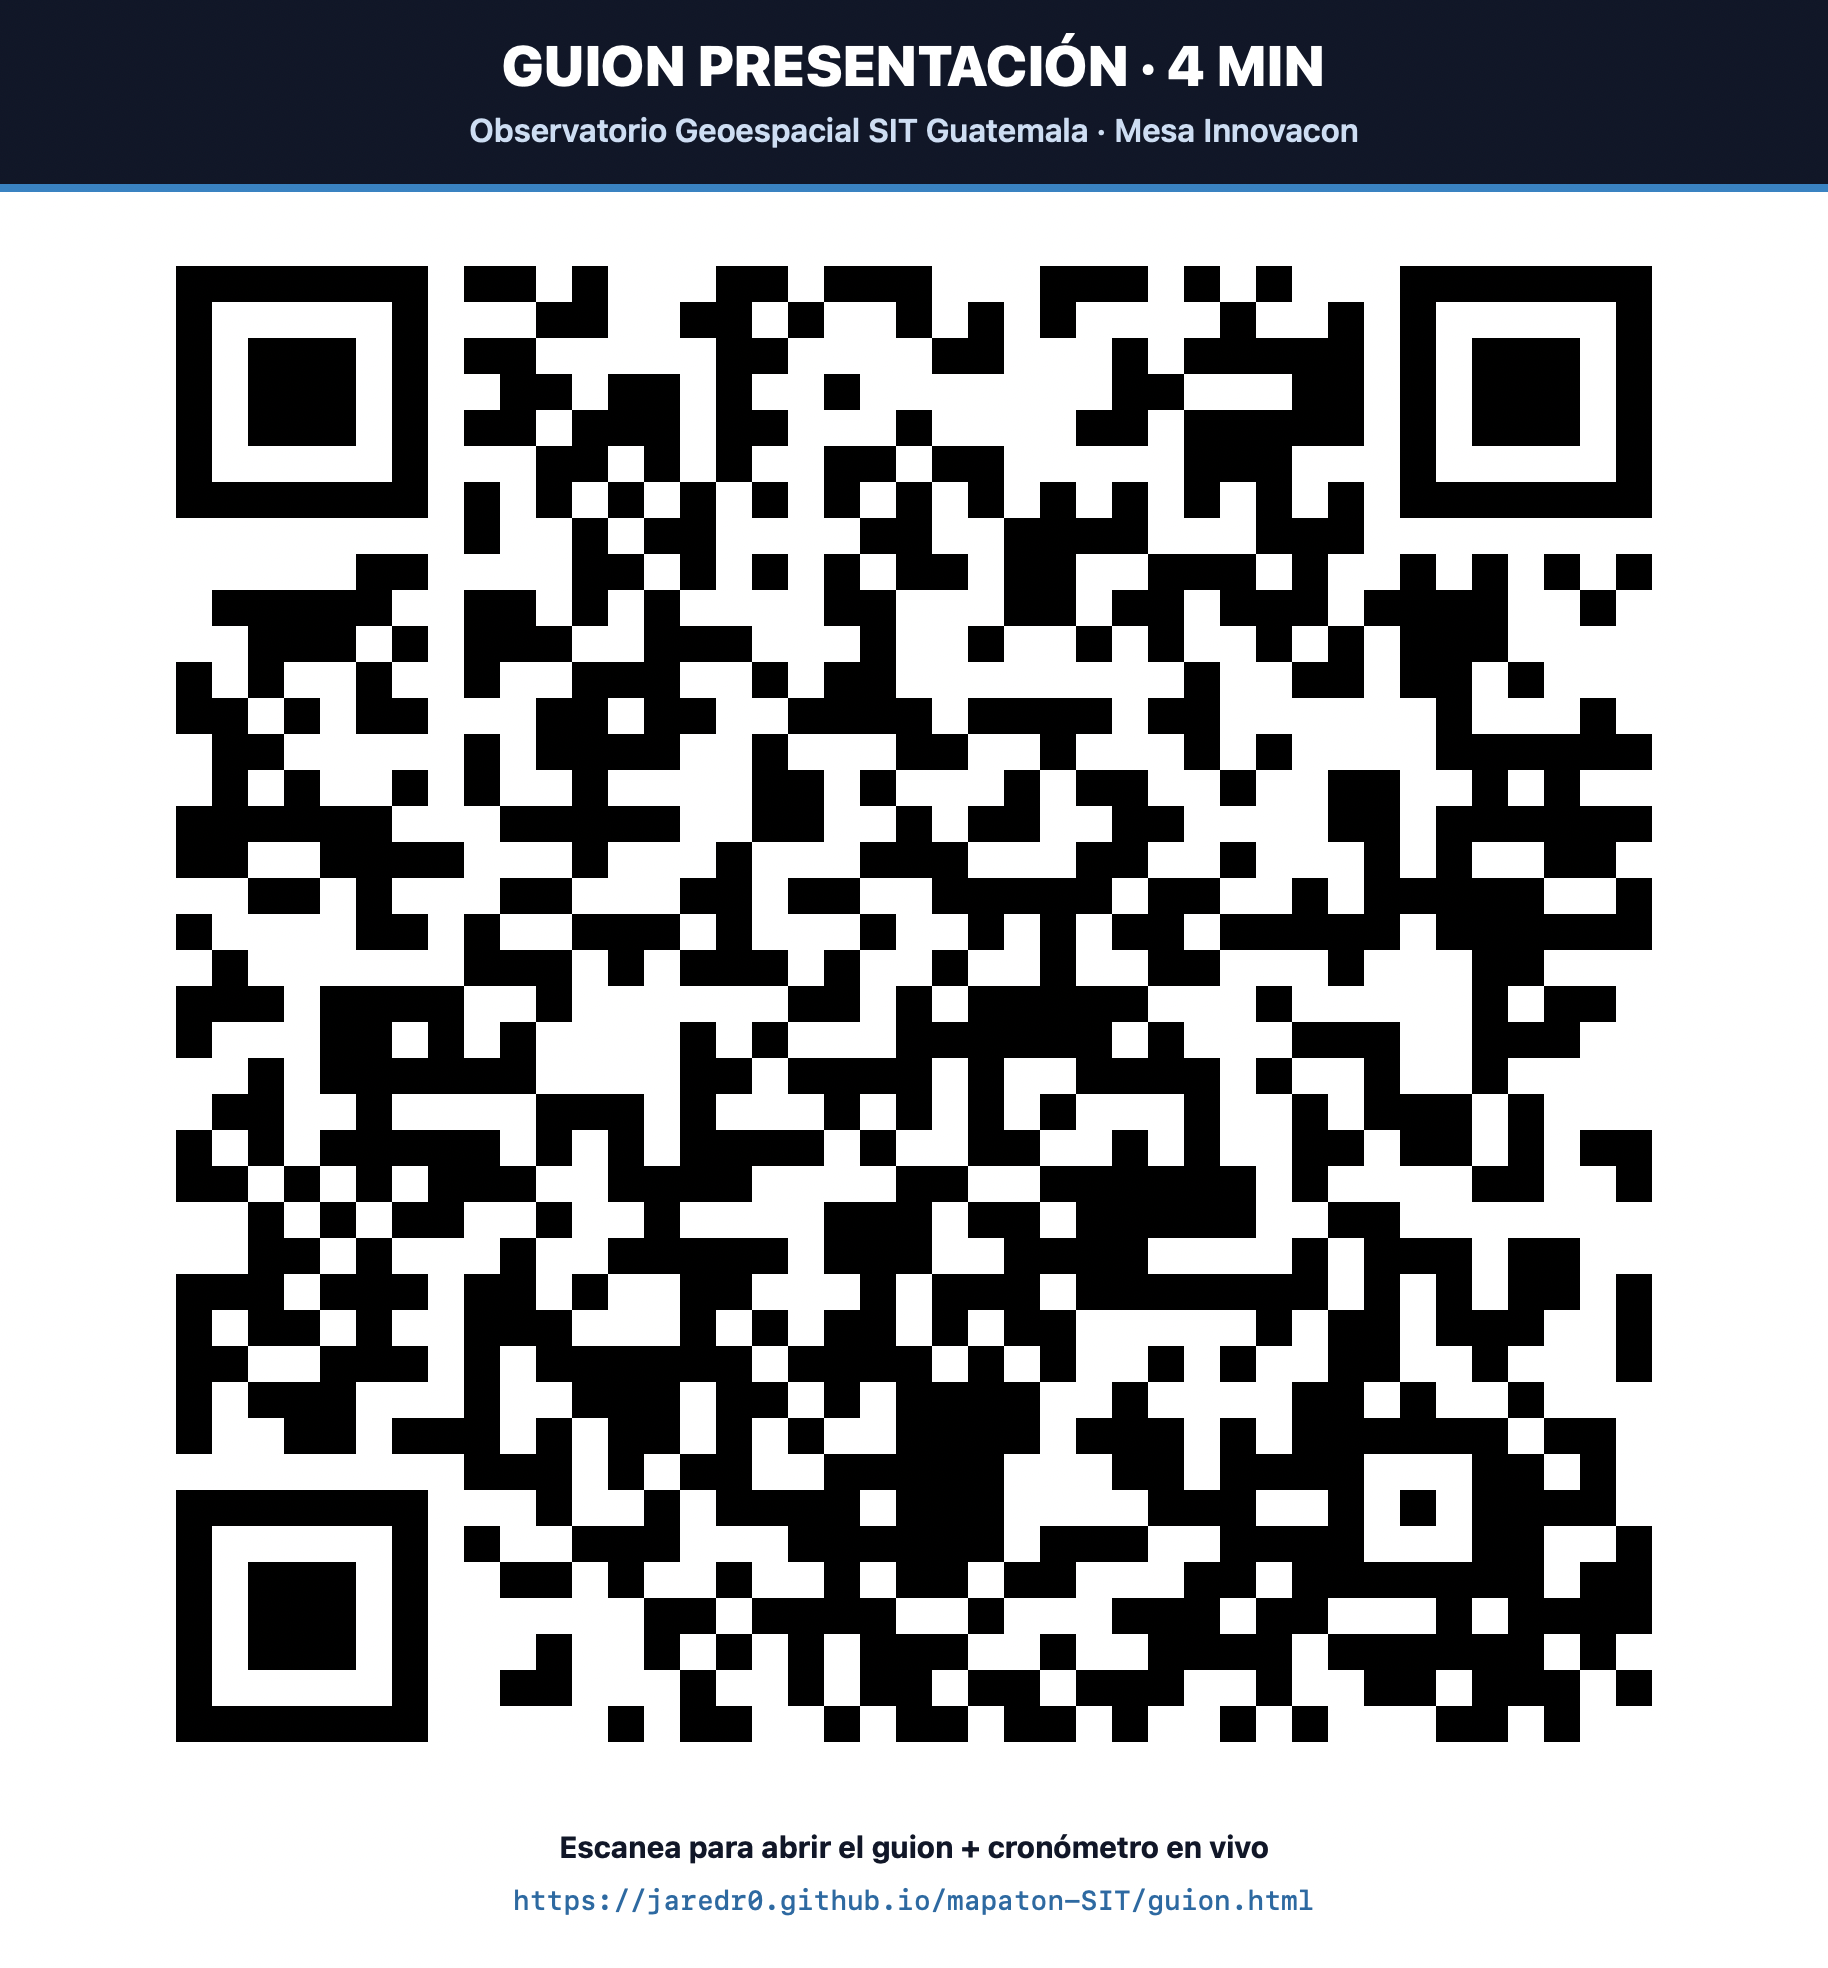
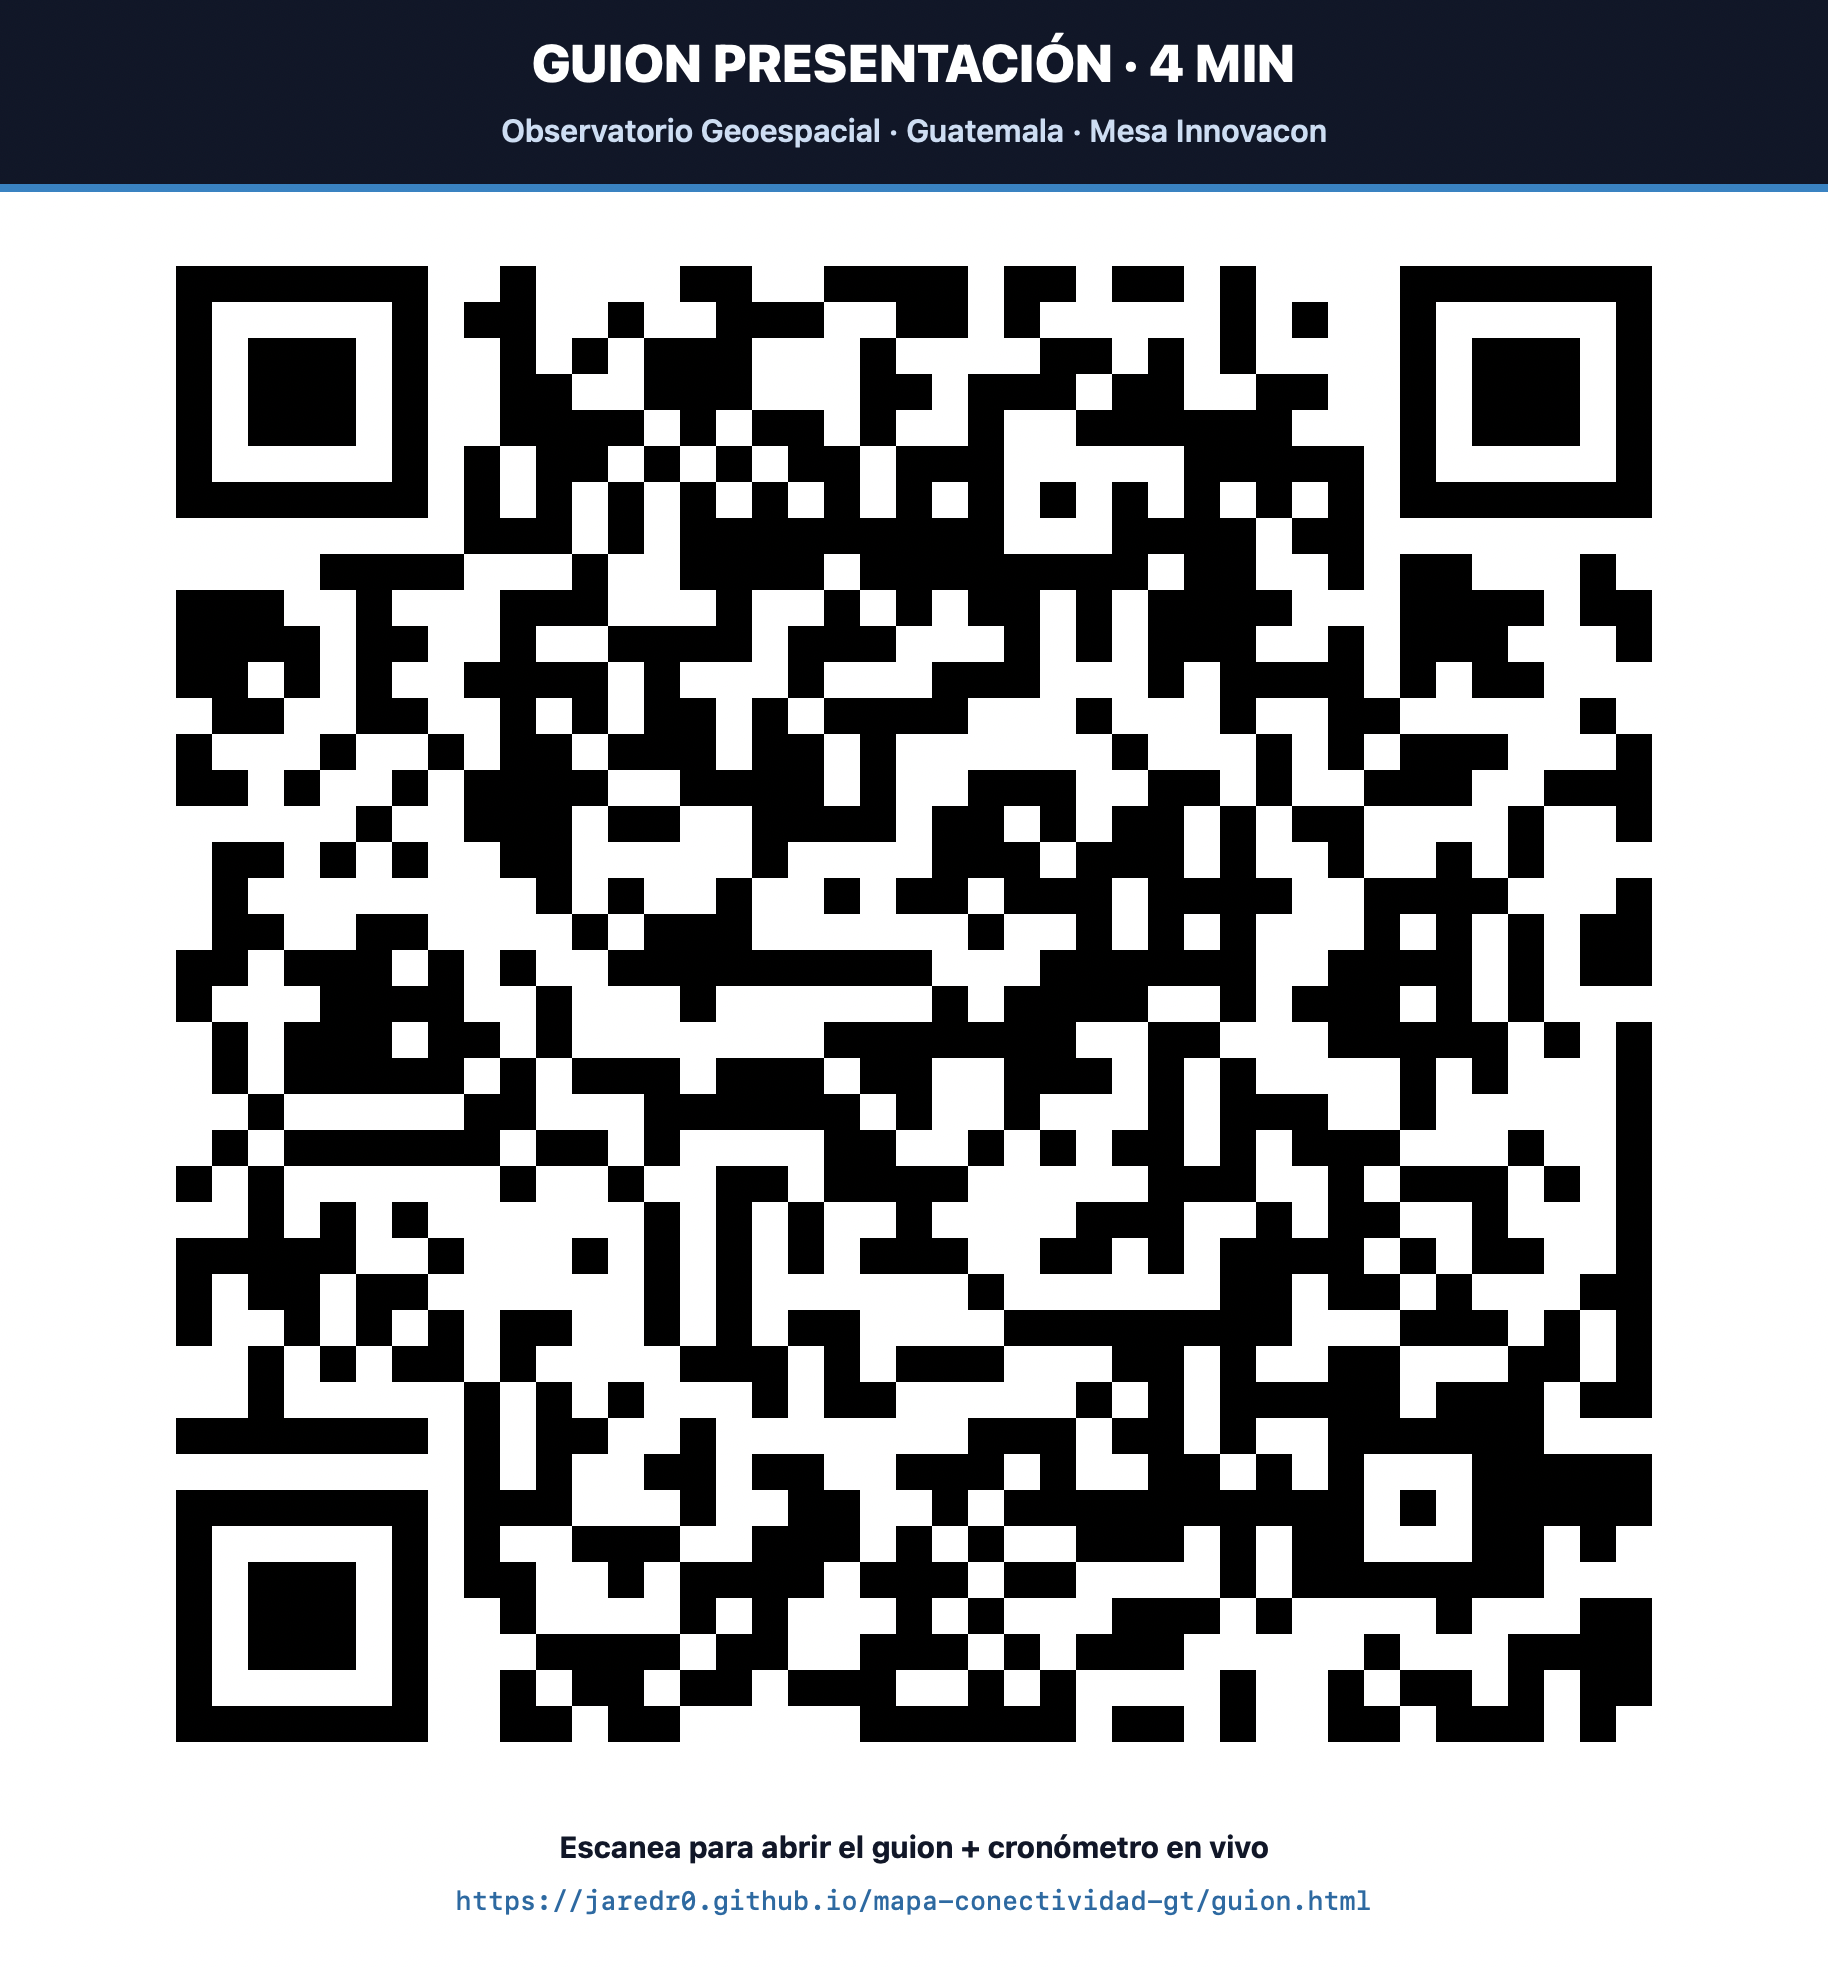
Remove SIT references from guion.html, README, and regenerate clean QR codes for mapa-conectividad-gt

Changed region(s): [[0.0935, 0.124, 0.9043, 0.8989], [0.2495, 0.0, 0.7484, 0.093], [0.2495, 0.9609, 0.7484, 0.9919]]

diff --git a/guion.html b/guion.html
@@ -3,7 +3,7 @@
 <head>
 <meta charset="utf-8" />
 <meta name="viewport" content="width=device-width, initial-scale=1" />
-<title>Guion 4 Minutos · Observatorio Geoespacial SIT Guatemala</title>
+<title>Guion 4 Minutos · Observatorio Geoespacial Guatemala</title>
 <style>
   :root {
     --bg: #f1f5f9;
@@ -149,7 +149,7 @@
     <div class="sticky-inner">
       <div class="brand">
         <h1>Guion de Presentación · 4:00 Minutos</h1>
-        <p>Observatorio Geoespacial SIT Guatemala · Mesa de Trabajo Innovacon</p>
+        <p>Observatorio Geoespacial · Guatemala · Mesa de Trabajo Innovacon</p>
       </div>
       <div class="timer-box">
         <span class="timer-display" id="timer">00:00</span>
@@ -204,7 +204,7 @@
         <span class="time-pill">0:30 – 1:15 · 45 segundos</span>
       </div>
       <p class="say">
-        <strong>Lo que sí nos entregó el reto:</strong> documentos con información agrupada y una tabla consolidada de los boletines de la SIT — Municipios y 27,352 Lugares Poblados 2026, la tabla consolidada de boletines de la SIT (2014–2026), y los datos de población, brecha digital de conectividad, analfabetismo y población ocupada del INE.
+        <strong>Lo que sí nos entregó el reto:</strong> documentos con información agrupada y una tabla consolidada de boletines estadísticos de telecomunicaciones — Municipios y 27,352 Lugares Poblados 2026, la serie consolidada de boletines del sector (2014–2026), y los datos de población, brecha digital de conectividad, analfabetismo y población ocupada del INE.
       </p>
       <p class="say">
         <strong>Lo que nos faltó:</strong> información actualizada sobre la cobertura eléctrica, cobertura de conectividad digital y el cruce socioeconómico del país.
@@ -217,7 +217,7 @@
           <h4>Datos integrados</h4>
           <ul>
             <li>Municipios y 27,352 Lugares Poblados 2026 (KMZ)</li>
-            <li>Tabla consolidada de boletines SIT (2014–2026)</li>
+            <li>Tabla consolidada de boletines del sector (2014–2026)</li>
             <li>Población, brecha digital, analfabetismo y población ocupada (INE)</li>
           </ul>
         </div>
@@ -240,8 +240,8 @@
       </div>
       <p class="say">
         <strong>Dónde:</strong> 340 municipios, 22 departamentos y 27,352 comunidades GPS.<br>
-        <strong>Cuándo:</strong> 10 años de historia SIT (2014–2026) + línea de tiempo Brecha Digital (2018 → 2023).<br>
-        <strong>A quién:</strong> SIT, operadores, prestadores de servicios, municipalidades, organismos internacionales y ciudadanos. Se cuenta con <strong>accesibilidad para personas no videntes y sordas</strong>.
+        <strong>Cuándo:</strong> 10 años de historia del sector (2014–2026) + línea de tiempo Brecha Digital (2018 → 2023).<br>
+        <strong>A quién:</strong> entidades del sector telecomunicaciones, operadores, prestadores de servicios, municipalidades, organismos internacionales y ciudadanos. Se cuenta con <strong>accesibilidad para personas no videntes y sordas</strong>.
       </p>
       <div class="mini-box" style="margin-bottom:8px;">
         <h4>Qué variables mostramos en vivo</h4>
@@ -279,14 +279,14 @@
     <!-- BLOQUE 5: 3:20 - 4:00 -->
     <section class="block b-purple" data-start="200" data-end="240">
       <div class="block-hd">
-        <div class="block-title">5. Qué necesitamos de la SIT + Cierre</div>
+        <div class="block-title">5. Qué necesitamos de las instituciones + Cierre</div>
         <span class="time-pill">3:20 – 4:00 · 40 segundos</span>
       </div>
       <div class="mini-box" style="margin-bottom:10px;">
         <ol>
           <li><strong>Datos abiertos en CSV/API</strong> en lugar de PDFs semestrales para conectar el observatorio en vivo.</li>
           <li><strong>Desagregación municipal de Banda Ancha Fija y calidad móvil (4G/5G)</strong> — hoy solo existen a nivel nacional.</li>
-          <li><strong>Mesa interinstitucional a nivel público-privado</strong> con la participación de instituciones como <strong>SIT + INDE + INE + SEGEPLAN + SECTOR PRIVADO + ACADEMIA</strong> para generar un análisis técnico que permita que sea integral.</li>
+          <li><strong>Mesa interinstitucional a nivel público-privado</strong> con la participación de instituciones como <strong>Ente regulador de telecomunicaciones + INDE + INE + SEGEPLAN + SECTOR PRIVADO + ACADEMIA</strong> para generar un análisis técnico que permita que sea integral.</li>
         </ol>
       </div>
       <p class="say">

diff --git a/README.md b/README.md
@@ -1,10 +1,13 @@
-# Observatorio Geoespacial SIT Guatemala (2014–2026)
+# Observatorio Geoespacial de Conectividad · Guatemala
 
-Mapa interactivo oficial de los **340 municipios** y **22 departamentos** de Guatemala, integrando:
+Mapa interactivo de los **340 municipios** y **22 departamentos** de Guatemala, integrando:
 
-- **Datos oficiales SIT Guatemala (`2014-S1` – `2026-S1`):** Radiobases territoriales (18 semestres), líneas fijas por municipio y 9 operadores (8 semestres), serie histórica nacional, tarifas ORL y conciliación territorial (0 diferencia local).
-- **Geolocalización oficial (`KMZ 2026`):** 27,352 lugares poblados geolocalizados con coordenadas GPS por municipio.
-- **Índice de Saturación Económica (`ISI 0–100`) + `HHI` (DOJ/FTC) + Crecimiento 3 años:** semáforo y recomendaciones prácticas para toma de decisiones económicas y empresariales.
-- **Descarga categórica en Excel (`.xlsx`):** exportación nativa multi-hoja por municipio, departamento completo, comparación de 2 a 5 municipios o consolidado nacional.
+- **Infraestructura de telecomunicaciones (`2014-S1` – `2026-S1`):** Radiobases territoriales (18 semestres), líneas fijas por municipio y operadores (8 semestres), serie histórica nacional y conciliación territorial (0 diferencia local).
+- **Brecha Digital (`2018 → 2023`) y Puntaje de Brecha Digital (`0–100`):** línea de tiempo oficial del INE (XII Censo 2018 municipal y ENCOVI 2023 departamental) más priorización territorial en 5 pasos.
+- **Tecnología, Educación y Economía (INE · Enfoque ITU):** población, alfabetismo/analfabetismo y población ocupada a nivel municipal y departamental.
+- **Geolocalización (`KMZ 2026`):** 27,352 lugares poblados geolocalizados con coordenadas GPS por municipio.
+- **Índice de Saturación Económica (`ISI 0–100`) + `HHI` (DOJ/FTC):** semáforo y recomendaciones prácticas para toma de decisiones.
+- **Accesibilidad e Inclusión:** interfaz visual con español sencillo, subtítulos sincronizados para personas sordas, lectura burbuja por burbuja para personas con baja visión o discapacidad visual, y dictado por voz.
+- **Descarga en Excel (`.xlsx`):** exportación nativa multi-hoja con mapa cartográfico incrustado.
 
-> **100% cifras oficiales verificadas — cero datos inventados ni imputados.**
+> **100% cifras verificadas — cero datos inventados ni imputados.**
